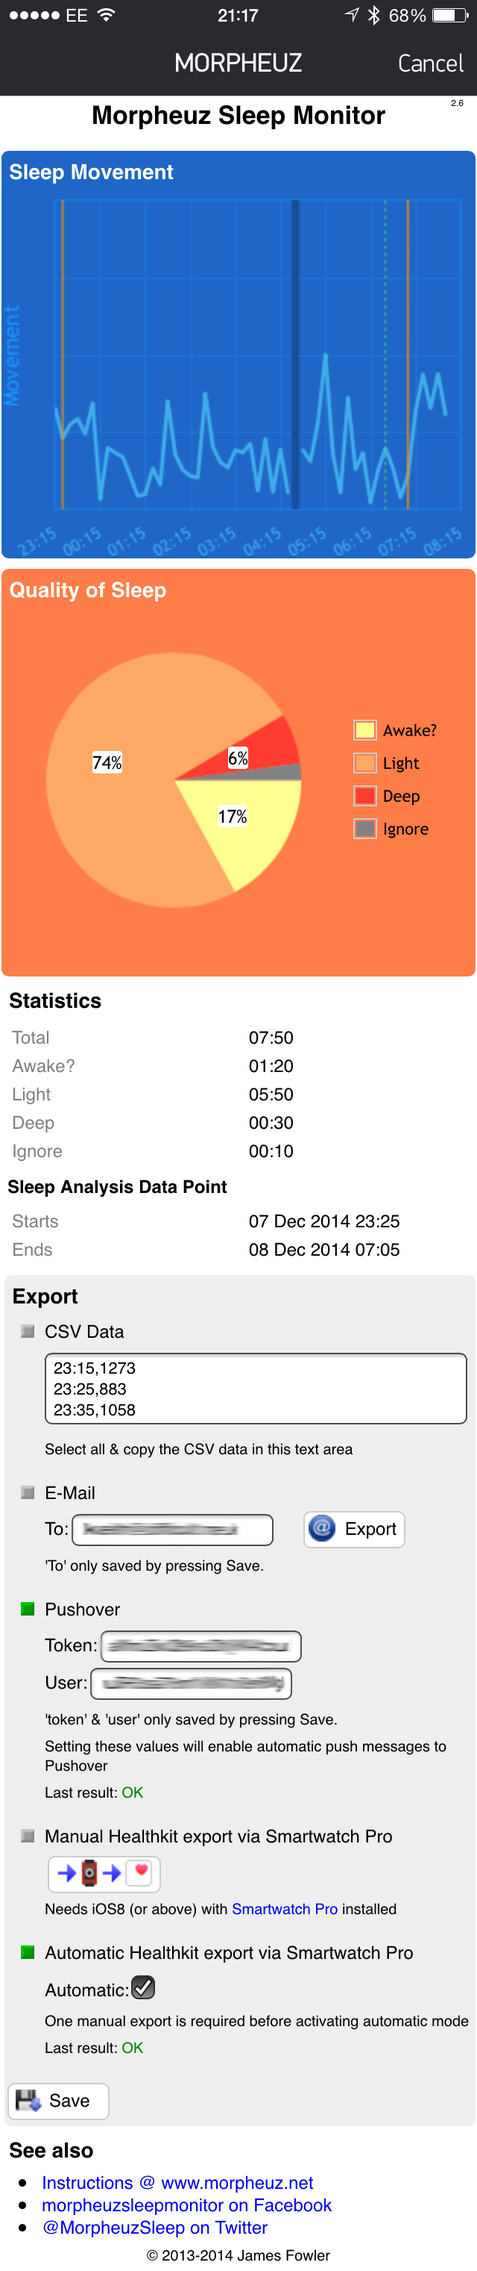
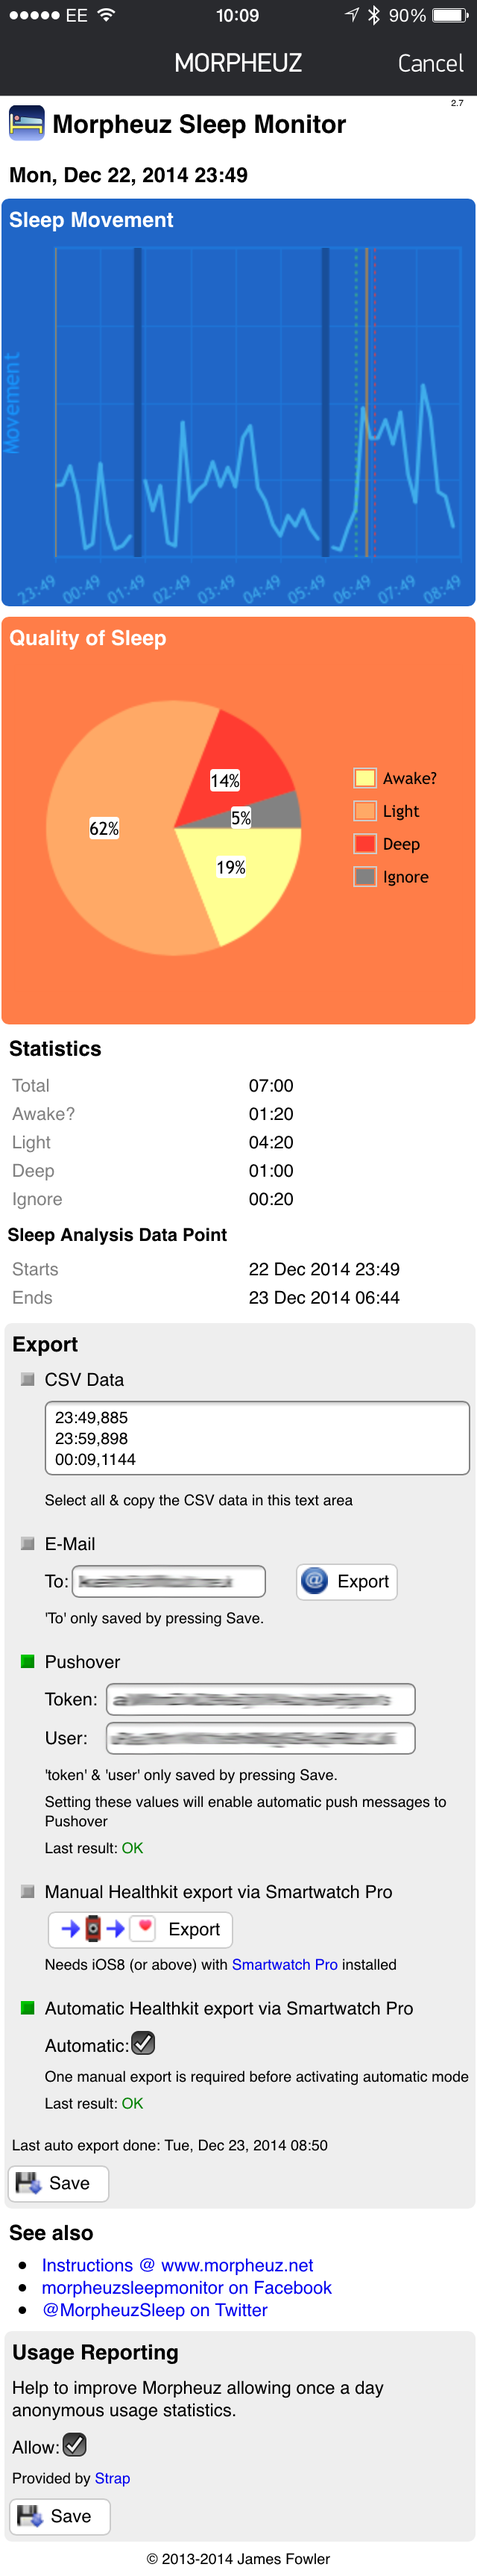
Version 2.7
New screenshots
Minor statistics calculation fix

diff --git a/website/morpheuz/view.js b/website/morpheuz/view.js
@@ -34,7 +34,7 @@ function mConst() {
     swpAppStoreUrl : "https://itunes.apple.com/app/smartwatch-pro-for-pebble/id673907094?mt=8&at=10lIFm&ct=morpheuz_web",
     displayDateFmt : "WWW, NNN dd, yyyy hh:mm",
     iosDateFormat : "dd N yyyy hh:mm",
-    swpUrlDate: "yyyy-MM-ddThh:mm:00"
+    swpUrlDate : "yyyy-MM-ddThh:mm:00"
   };
 }
 
@@ -221,19 +221,21 @@ function calculateStats(base, splitup, goneoff, canvasOverlayConf) {
   var deep = 0;
   var light = 0;
   var ignore = 0;
-  for (var j = ibegin; j <= iends; j++) {
-    if (splitup[j] === "") {
-      continue;
-    }
-    var data2 = parseInt(splitup[j], 10);
-    if (data2 == -1 || data2 == -2) {
-      ignore++;
-    } else if (data2 > mConst().awakeAbove) {
-      awake++;
-    } else if (data2 > mConst().lightAbove) {
-      light++;
-    } else {
-      deep++;
+  if (ibegin !== null && iends !== null) {
+    for (var j = ibegin; j <= iends; j++) {
+      if (splitup[j] === "") {
+        continue;
+      }
+      var data2 = parseInt(splitup[j], 10);
+      if (data2 == -1 || data2 == -2) {
+        ignore++;
+      } else if (data2 > mConst().awakeAbove) {
+        awake++;
+      } else if (data2 > mConst().lightAbove) {
+        light++;
+      } else {
+        deep++;
+      }
     }
   }
 
